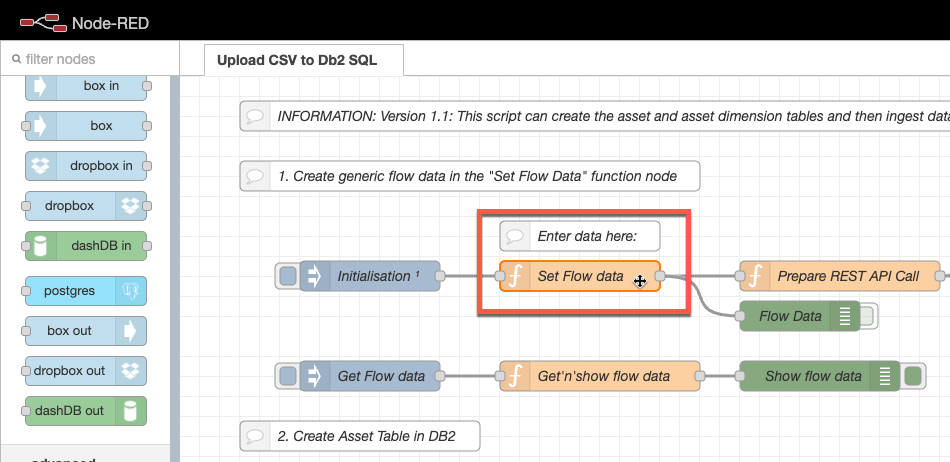
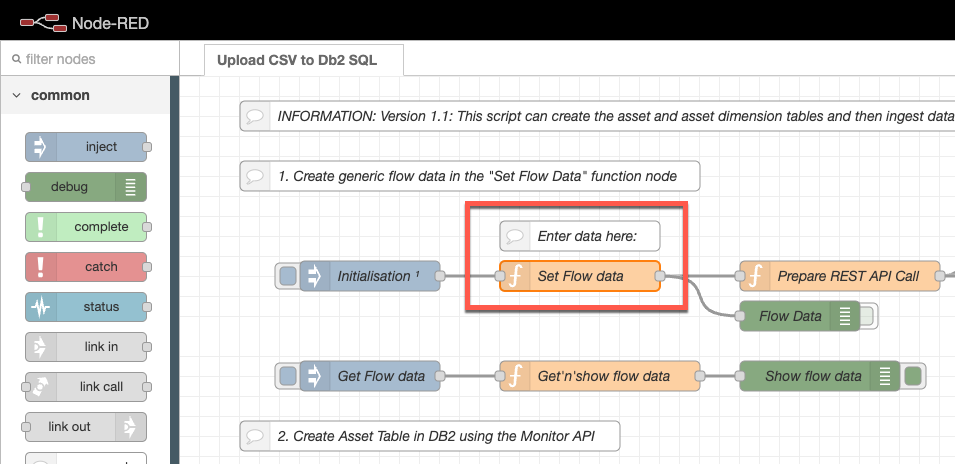
adjust is done

diff --git a/MkDocs/monitor_csv_importer_8.6/docs/adjust_script.md b/MkDocs/monitor_csv_importer_8.6/docs/adjust_script.md
@@ -1,8 +1,9 @@
 # Objectives
 In this Exercise you will learn how to:
 
-* Adjust the required Node-RED script
-* Verify the script
+* Create the Monitor Device type
+* Inject and verify 1 row of data
+* Inject historical data from CSV file(s)
 
 ---
 *Before you begin:*  
@@ -10,16 +11,134 @@ This Exercise requires that you:
 
 1. Have completed the pre-requisites required for [all labs](../prereqs)
 2. Have completed the [setup of Node-RED locally](../setup)
-3. Have [imported the Node-RED scripot](../get_script)
+3. Have [imported the Node-RED script](../get_script)
  
+
+!!! note
+    You need the credentials described in the [Pre-Requites](../prereqs) before proceeding with this exercise.
+
+The Node-RED script includes 5 steps which are shown with comment nodes in the script:
+
+1.  Create generic flow data in the "Set Flow Data" function node
+2.  Create Asset Table in DB2 using the Monitor API
+3.  Inject 1 row of data into the table to verify it works
+4.  Update the "Fomat SQL" function node in step 5 to reflect step 3
+5.  Upload CSV data to SQL database using the UI uploader
+
+
+!!! tip
+    You can also find the description of the 5 steps within the flow in textual form.</br>
+    Simply double-click to open the INFORMATION node:</br></br>
+    ![View Information](/img/monitor_csv_importer_8.6/Adjust_00.png)</br></br>
+</br>
+
 ---
-##  Adjust the required Node-RED script
+##  Create the Monitor Device type
+
+This section describes how to use the Monitor API to create the demo pump device in Monitor without using the IoT Tool.
+
+1.  Open Node-RED in your browser if not done already.
+2.  Find and open the "Set Flow Data" node in Step 1.
+![Find node](/img/monitor_csv_importer_8.6/Adjust_01.png)</br></br>
+3.  Enter the Monitor API URL `monitorAPIURL` as well as the API Key `x_api_key` and API Token `x_api_token`.
+![Enter credentials](/img/monitor_csv_importer_8.6/Adjust_02.png)</br>
+The metricTimestampColumn in the "Set Flow Data" function node tells Monitor which column should be used as timestamp, which is important when injecting historical data.</br>
+The metrics are already adjusted to contain the same columns as in Pump CSV data files that you will use later in the lab.</br></br>
+4.  Deploy the script and if you enterred the correct credentials you should see the below message at [Node-RED Dashboard](http://localhost:1880/ui){target=_blank} (unless the DEMO_PUMP table has already been created).
+![Verify connection to Monitor](/img/monitor_csv_importer_8.6/Adjust_03.png)</br></br>
+5.  Step 2 is really easy, as it only requires you to click on the inject node called "Create Table".
+![Create Table](/img/monitor_csv_importer_8.6/Adjust_04.png)</br></br>
+6.  Navigate to the [Dashboard](http://localhost:1880/ui){target=_blank} once the `requesting` status of the `http request` node is gone.
+![Table Created](/img/monitor_csv_importer_8.6/Adjust_05.png)</br></br>
+
+    
+!!! attention
+    The order and names of the metrics MUST be the same as in the CSV file!!
+</br>
+
+##  Inject and verify 1 row of data
+
+!!! note
+    You can use the Maximo Monitor application to verify that the Device type has been created.</br>
+    However I will be using [DBeaver Community Edition](https://dbeaver.io/download/){target=_blank} during this lab.</br>
+    Now you should be able to see the DEMO_PUMP tables have been created:</br></br>
+    ![View Information](/img/monitor_csv_importer_8.6/Adjust_10.png)</br></br>
+</br>
+
+1.  Find and open the "MAS (8.6)" dashDB In node in Step 3.
+![Find node](/img/monitor_csv_importer_8.6/Adjust_11.png)</br></br>
+2.  Click on the pencil to edit the Server data.
+![Edit Server](/img/monitor_csv_importer_8.6/Adjust_12.png)</br></br>
+3.  Enter the credentials to the DB2 Warehouse server and press `Update` and then `Done`.
+![Edit Server](/img/monitor_csv_importer_8.6/Adjust_13.png)</br></br>
+4.  Find and open the "Format SQL" function node.
+![Find node](/img/monitor_csv_importer_8.6/Adjust_14.png)</br></br>
+5.  Scroll down and you will see two sections where you can enter data.</br>
+The first `"line"` section is populated with some simulated data which is in the same order as the CSV file data you will be using soon.
+The second section is where the SQL statement is being created which will be used to inject that data into the DB2 Warehouse.</br>
+You can leave these sections untouched for now, as this excercise will use provided CSV files that matches that data set - Click on `Done` or `Cancel` to close the function node.
+![Describe Sections](/img/monitor_csv_importer_8.6/Adjust_15.png)</br></br>
+6.  Click on the `Inject 1 row` inject node.
+![Inject 1 row](/img/monitor_csv_importer_8.6/Adjust_16.png)</br></br>
+7.  My first try failed due to wrong password as you can see in the debug pane.</br>
+The second attempt was successful as shown in the red box.</br>
+You can also see the actual complete SQL statement that was send to the database. This might help you when you want to experiment with your own data set after you have completed this lab.
+![Inject 1 row](/img/monitor_csv_importer_8.6/Adjust_17.png)</br></br>
+8.  And you can also verify that the data was injected into the database using DBeaver.
+![Show 1 row in DBeaver](/img/monitor_csv_importer_8.6/Adjust_18.png)</br></br>
 
 
 
-##  Verify the script
+##  Inject historical data from CSV file(s)
+
+Now is the time you have been waiting for ;-)</br></br>
+You will be using the two csv files which was downloaded together with the Node-RED script</br>
+(in your Downloads folder). Please remember that location.</br>
+The first three steps of the total of five is done and you will now execute the last two steps.
+
+!!! note
+    The uploadSql and the chunks-to-lines nodes makes it possible to handle rather large data sets as they make sure the data set is handled in smaller chunks to avoid memory issues - but at the same time ingest 2048 rows into the database at the time (it seems to be a good number from a performance and error avoidance perspective).
+
+
+1.  As you can see in the script Step 4 is about copying the second section from `Format SQL` in Step 3 to `Format SQL` in Step 5.
+![Show Step 4](/img/monitor_csv_importer_8.6/Adjust_20.png)</br></br>
+2.  Open the `Format SQL` in Step 3, scroll to the end and make a copy of the lines between:</br>
+`// BEGIN: THIS SECTION CAN BE COPIED TO STEP 5 "Format SQL" NODE, ONCE IT WORKS.
+:
+// END`
+![First Format SQL node](/img/monitor_csv_importer_8.6/Adjust_21.png)</br></br>
+3.  Open the `Format SQL` in Step 5, scroll to the end.</br>
+You can see that the content you copied from Step 3 is already there, but now you know the process when experimenting with your own data sets.
+![Second Format SQL node](/img/monitor_csv_importer_8.6/Adjust_22.png)</br></br>
+4.  It is a good idea to delete the test rows that was injected in Step 3 before injecting the CSV data from the files. Scroll down in the workspace and you will see some additional Step 4 nodes to empty the table (but not removing it), click on the `Truncate table` inject node.
+![Truncate table](/img/monitor_csv_importer_8.6/Adjust_23.png)</br></br>
+5.  It is now time to inject the first small data set of 10 data lines. The file `PumpDataSmall.csv` will be used for that purpose. Navigate the the [Node-RED Dashboard](http://localhost:1880/ui){target=_blank} and clik on `Choose file`.
+![Choose file](/img/monitor_csv_importer_8.6/Adjust_30.png)</br></br>
+6.  Select `PumpDataSmall.csv` and press `Open`.
+![Select file](/img/monitor_csv_importer_8.6/Adjust_31.png)</br></br>
+7.  Press the `Play` button.
+![Run](/img/monitor_csv_importer_8.6/Adjust_32.png)</br></br>
+8.  It took 1 second to inject 10 rows of data.
+![Injected 10 rows](/img/monitor_csv_importer_8.6/Adjust_33.png)</br></br>
+9.  If that is not the case, then verify that the separator is correct. Open the `csv` node.
+![csv node](/img/monitor_csv_importer_8.6/Adjust_34.png)</br></br>
+10.  Verify that the Separator is the same as that being used in the CSV file.</br>
+`semicolon` is used in the pump csv files.
+![csv separator](/img/monitor_csv_importer_8.6/Adjust_35.png)</br></br>
+11.  It is a good idea to disable the two debug nodes before injecting the larger csv file. Click on the green (enabled) button so it become grey (disabled).
+![Disable debug nodes](/img/monitor_csv_importer_8.6/Adjust_40.png)</br></br>
+12.  Now it is time to inject the large CSV file. Click on `Choos file` and open `PumpData.csv`. 
+![Choose large file](/img/monitor_csv_importer_8.6/Adjust_41.png)</br></br>
+13.  Click on the `Play` button and you will see the progress as data is being injected.
+![Running](/img/monitor_csv_importer_8.6/Adjust_42.png)</br></br>
+14.  You have now injected 132479 rows of data in total from the two CSV files :-)
+![Done](/img/monitor_csv_importer_8.6/Adjust_43.png)</br></br>
+
+
+!!! note
+    Please empty the table when it is no longer being used.
 
 
 ---
-Congratulations you have successfully adjusted and prepared your script.</br>
-You will now be able to start the import of the CSV files.
+Congratulations you have successfully adjusted and prepared your script as well as injected the data from the two CSV files.</br>
+You will now be able to adjust according to your own data sets and inject those data sets into Maximo Monitor - Enjoy!

diff --git a/MkDocs/monitor_csv_importer_8.6/docs/about.md b/MkDocs/monitor_csv_importer_8.6/docs/about.md
@@ -9,6 +9,7 @@
 
 |Date     |By             | Description                                           |
 |:--------|:--------------|:------------------------------------------------------|
+|2022-02-17|Jan Ekstrøm|Ready for dry run. |
 |2022-02-16|Jan Ekstrøm|First draft version. |
 
 ---

diff --git a/MkDocs/monitor_csv_importer_8.6/docs/prereqs.md b/MkDocs/monitor_csv_importer_8.6/docs/prereqs.md
@@ -30,7 +30,7 @@ Monitor API credentials:
 Monitor DB2 Warehouse credentials:
 
 1.  Hostname
-2.  Database, usually BLUDB
+2.  Database, usually `BLUDB`
 3.  Username
 4.  Password
 5.  Port number

diff --git a/MkDocs/monitor_csv_importer_8.6/docs/index.md b/MkDocs/monitor_csv_importer_8.6/docs/index.md
@@ -12,6 +12,6 @@ In this lab I will show you the steps needed to successfully import the historic
 
 ---
 
-**Updated: 2022-02-28**
+**Updated: 2022-02-17**
 
 ---
